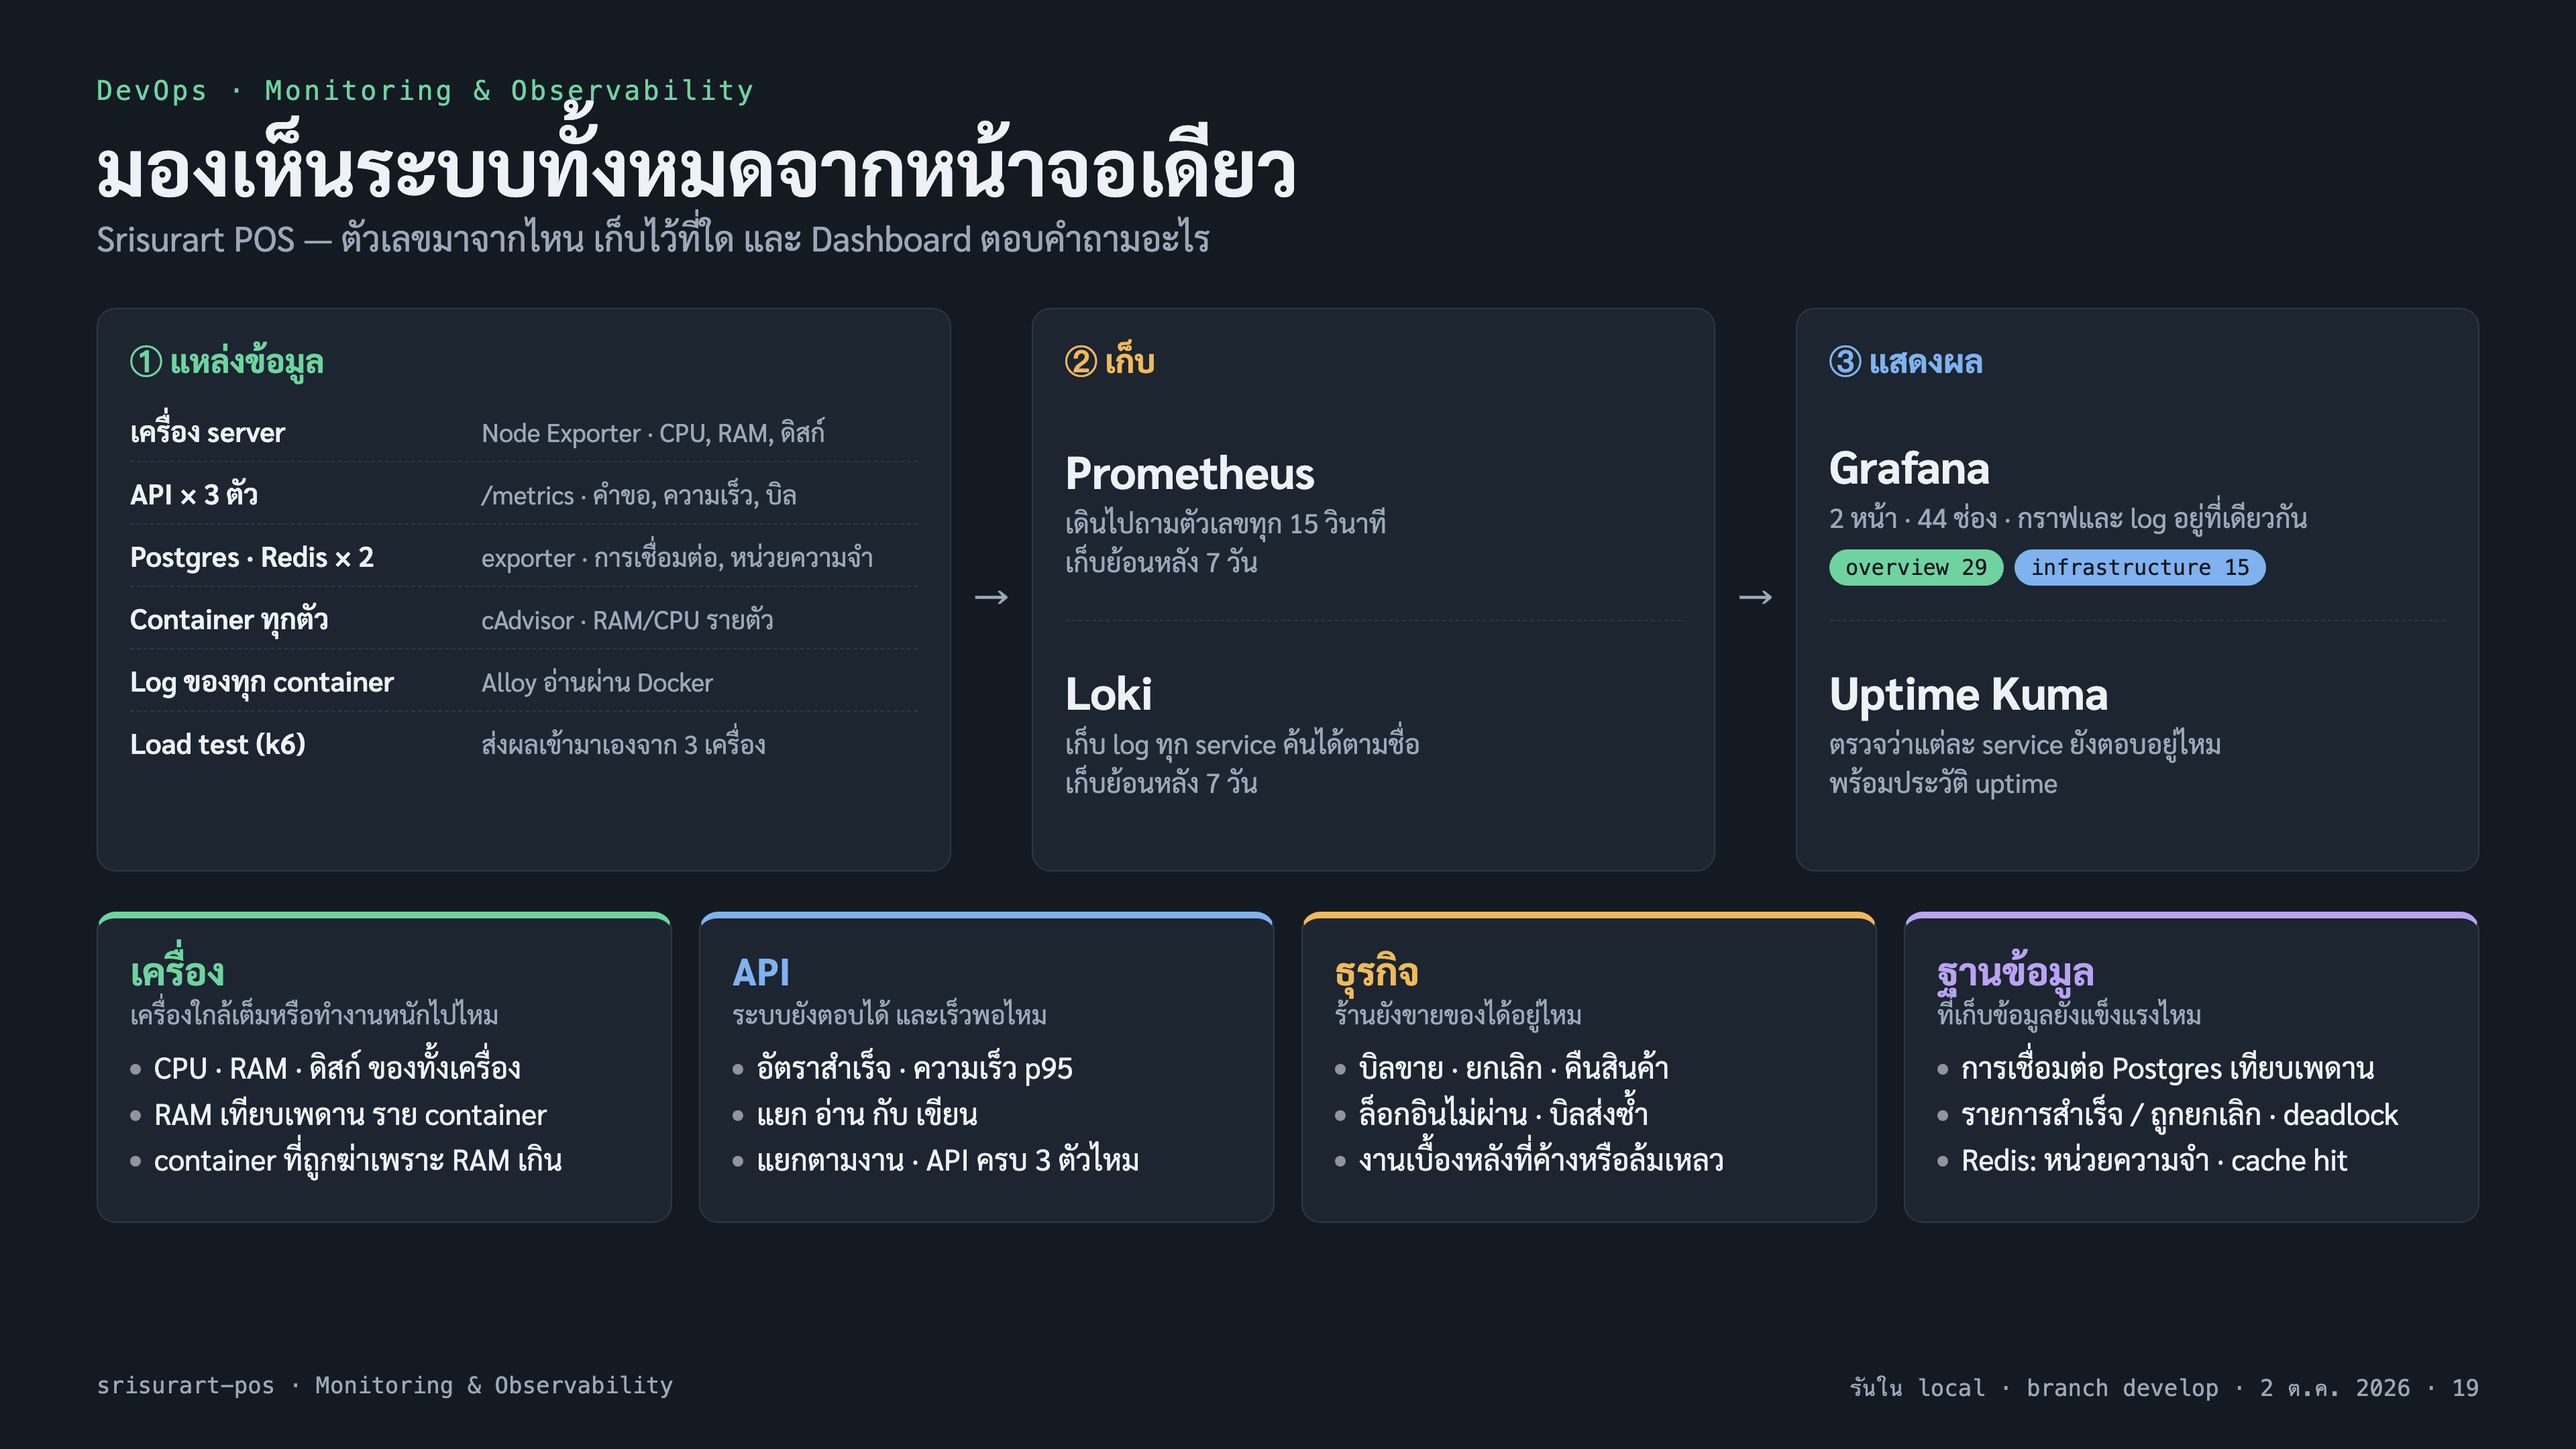
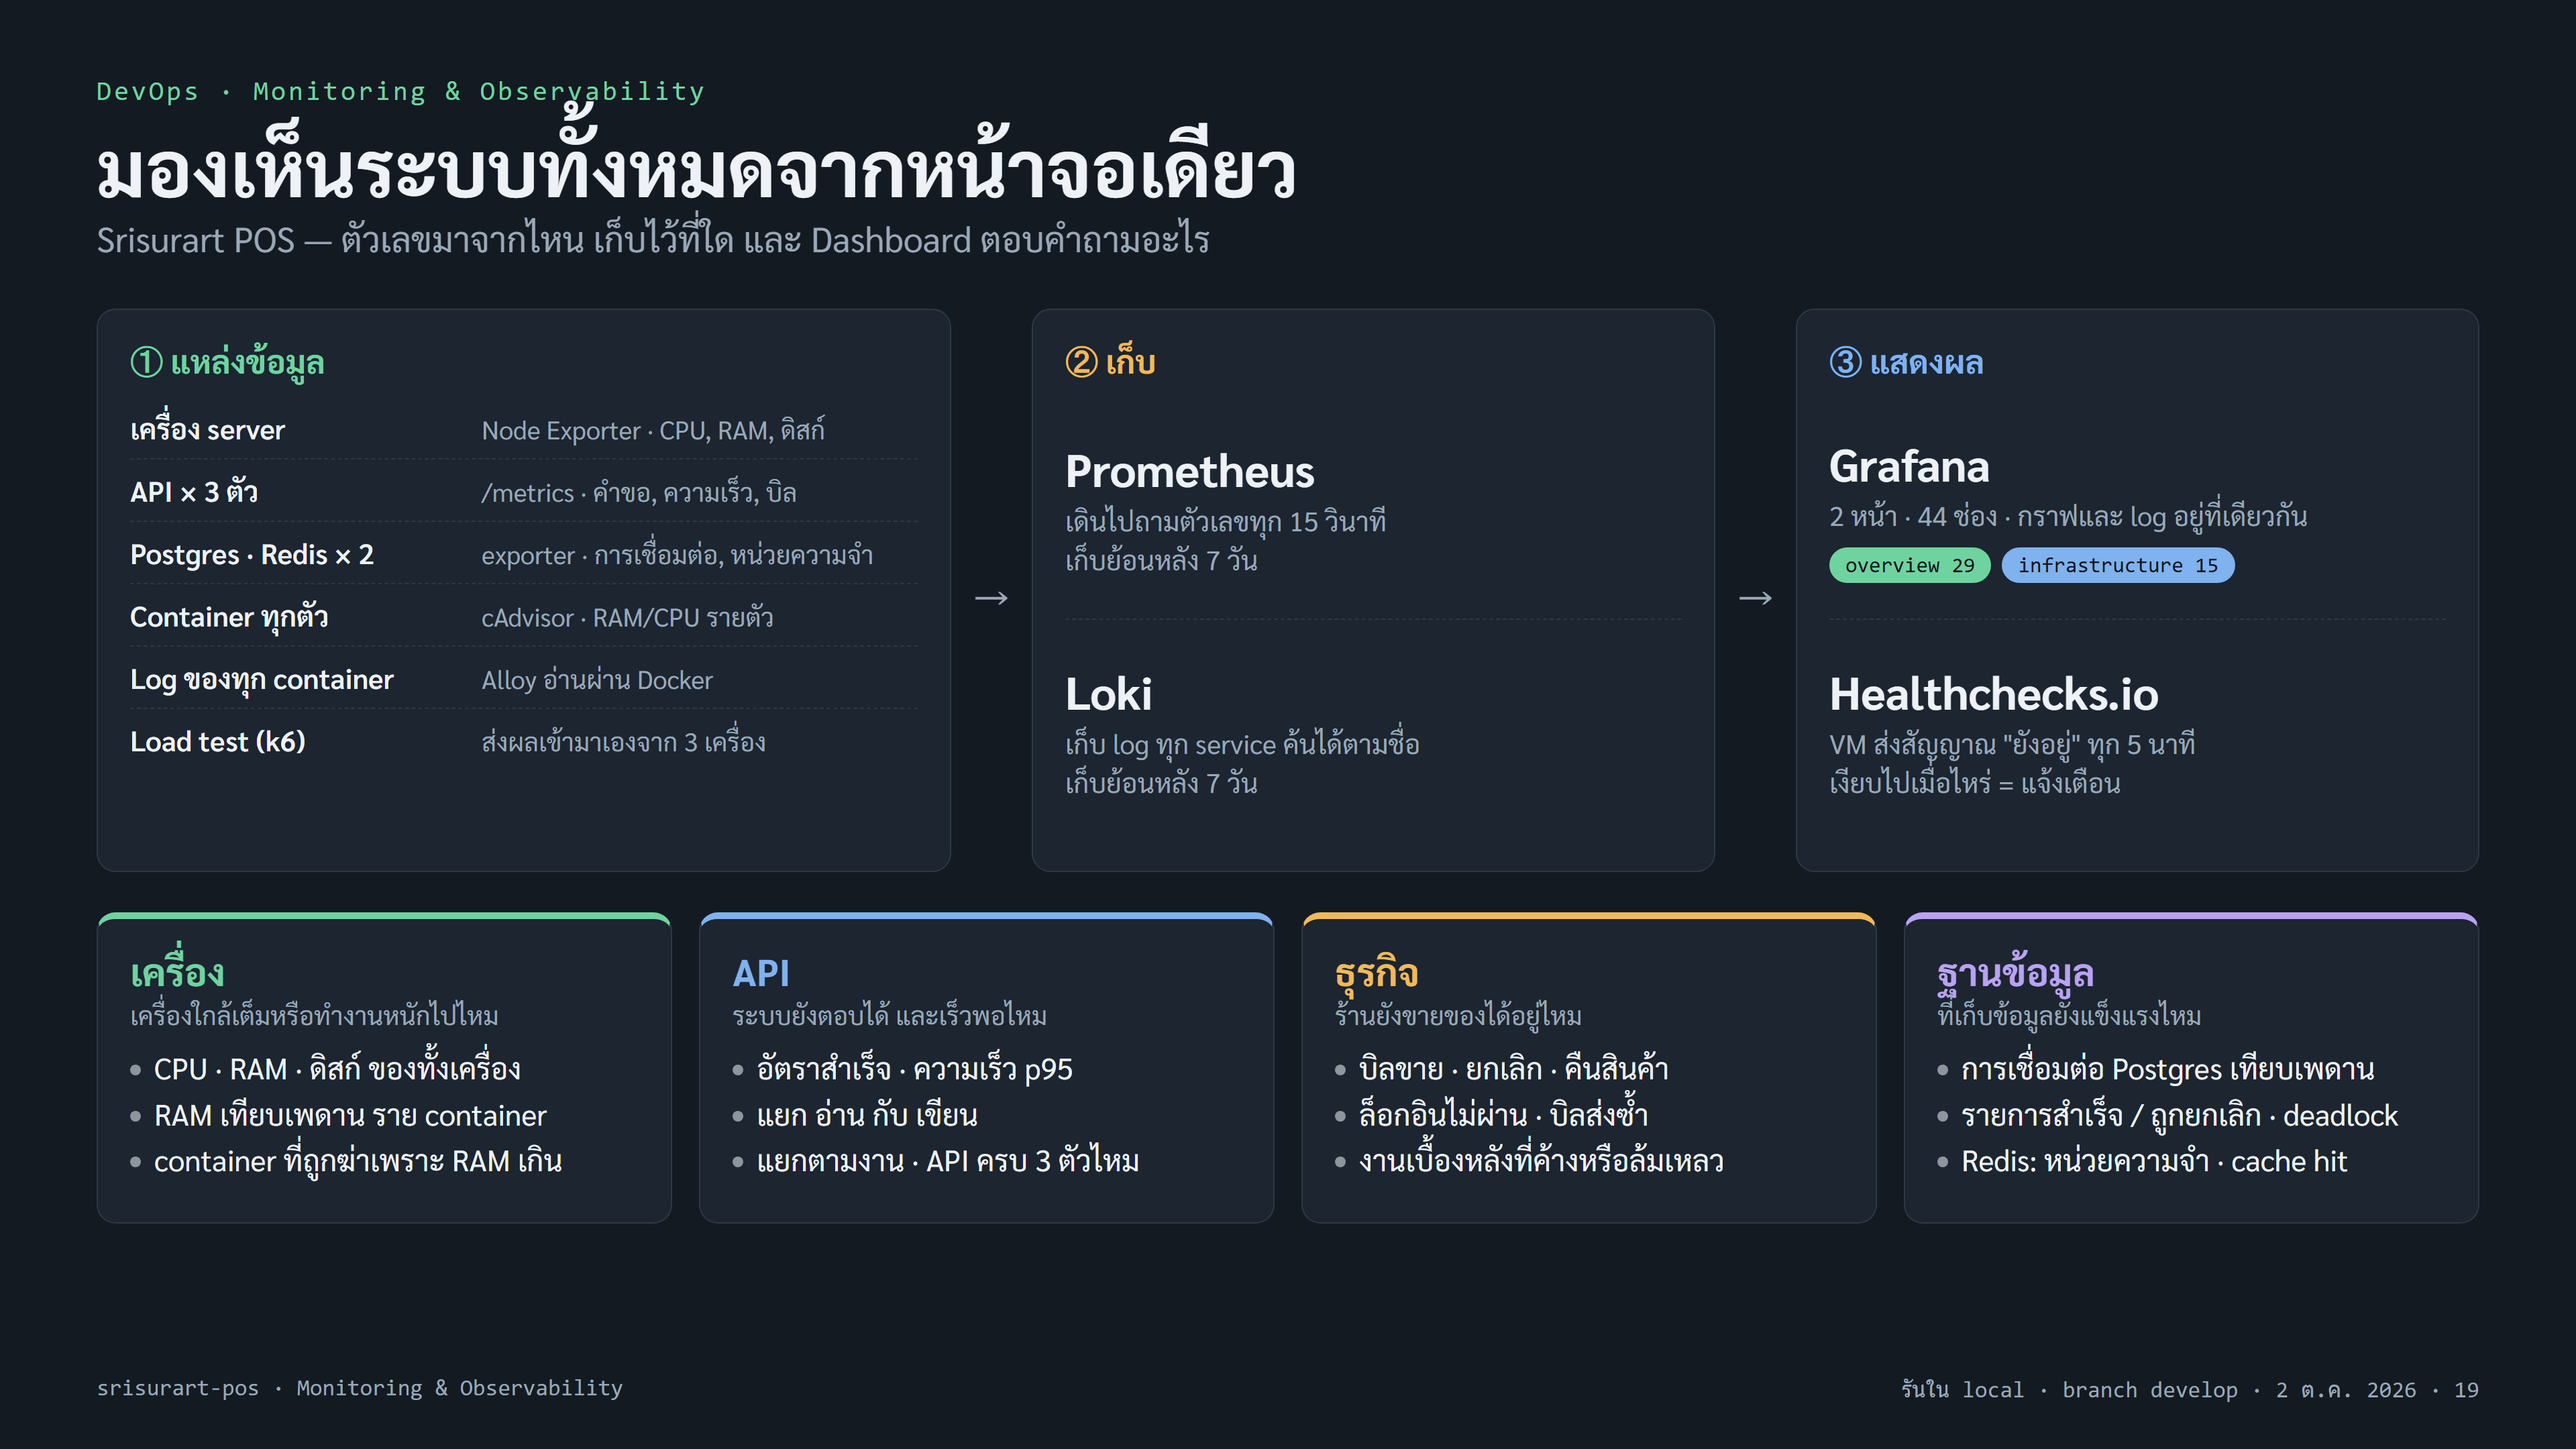
fix(deploy): review follow-ups for #600 — promtool in CI, full local-api override, Kuma → Healthchecks.io (#604)
- server.yml nginx-check: `promtool check config` (v2.55.1, same digest as monitoring.yml) on
  deploy/prometheus/prometheus.yml alone (as on mob04) and with the local overlay's scrape.d
  jobs. deploy.yml only warns when Prometheus fails on the VM, so CI is the first real check.
  The server path filter now includes deploy/prometheus/** and deploy/prometheus-local/**.
- local-api.yml: migrate, worker and bull-board also use the locally built image, so a branch's
  new migration actually runs and BullMQ jobs don't run old code against the new API.
- 07 §10.4: the scrape.d folder does not exist on the VM (not "empty"); cAdvisor is privileged
  with / mounted — dev machines only.
- infographic: Uptime Kuma was dropped for Healthchecks.io on 2026-10-04; HTML + PNG re-rendered.

diff --git a/docs/infographic/monitoring-dashboard.html b/docs/infographic/monitoring-dashboard.html
@@ -54,7 +54,7 @@ h1{font-size:58px;font-weight:700;line-height:1.15;margin-top:10px}
   <div class="col"><h2 style="color:var(--blue)">③ แสดงผล</h2>
     <div class="tool"><div class="big">Grafana</div><div class="note">2 หน้า · 44 ช่อง · กราฟและ log อยู่ที่เดียวกัน</div>
       <div><span class="chip" style="background:var(--green)">overview 29</span><span class="chip" style="background:var(--blue)">infrastructure 15</span></div></div>
-    <div class="tool"><div class="big">Uptime Kuma</div><div class="note">ตรวจว่าแต่ละ service ยังตอบอยู่ไหม<br>พร้อมประวัติ uptime</div></div>
+    <div class="tool"><div class="big">Healthchecks.io</div><div class="note">VM ส่งสัญญาณ "ยังอยู่" ทุก 5 นาที<br>เงียบไปเมื่อไหร่ = แจ้งเตือน</div></div>
   </div>
 </div>
 

diff --git a/docs/Backend_design/07_CICD_DEPLOY.md b/docs/Backend_design/07_CICD_DEPLOY.md
@@ -977,15 +977,15 @@ cadvisor 256m) ขณะที่เพดานรวมของ stack บน 
 | Alloy | `deploy/alloy/config.alloy` | อ่าน log ทุก container ของ compose project นี้ผ่าน `docker.sock` → Loki · UI `127.0.0.1:12345` |
 | exporters | `observability.yml` | postgres-exporter (superuser — **dev เท่านั้น**, VM ต้องใช้ role `pg_monitor`), redis_exporter (multi-target), cAdvisor |
 | Grafana/Prometheus | `deploy/grafana-local/`, `deploy/prometheus-local/` | datasource Loki + dashboard *POS — infrastructure (local)* 15 panel + scrape job 3 ตัว |
-| API จากโค้ดในเครื่อง | `deploy/compose/local-api.yml` | api-1..3 ใช้ image ที่ build เอง (ต้องอยู่หลัง `vm.override.yml`) |
+| API จากโค้ดในเครื่อง | `deploy/compose/local-api.yml` | ทุก service ที่ใช้ image server (migrate, api-1..3, worker, bull-board) ใช้ image ที่ build เอง (ต้องอยู่หลัง `vm.override.yml`) |
 
 * 🔴 ไฟล์ของ overlay นี้ **ห้ามวางใน `deploy/grafana/` หรือ `deploy/prometheus/`** — `deploy.yml` copy สองโฟลเดอร์นั้น
   ขึ้น VM ทั้งก้อน จะได้ datasource ที่ไม่มี Loki อยู่หลัง และ dashboard ที่ "No data" ทั้งหน้า
 * Grafana ใต้ overlay ใช้ `volumes: !override` (Compose ≥ 2.24) mount provisioning ทีละไฟล์ เพราะ bind-mount ไฟล์ลงใน
   โฟลเดอร์ provisioning ที่ mount `:ro` ไม่ได้ → **เพิ่มไฟล์ใน `deploy/grafana/provisioning/` ต้องเพิ่มใน
   `observability.yml` ด้วย** ไม่งั้น Grafana ใต้ overlay จะไม่เห็น
-* `prometheus.yml` มี `scrape_config_files: /etc/prometheus/scrape.d/*.yml` — บน VM โฟลเดอร์ว่าง (promtool v2.55.1 ผ่าน)
-* 🔴 `docker.sock:ro` **ไม่จำกัด Docker API** — Alloy และ cAdvisor สั่ง start/stop container ได้
+* `prometheus.yml` มี `scrape_config_files: /etc/prometheus/scrape.d/*.yml` — บน VM ไม่มีโฟลเดอร์นี้เลย จึงไม่โหลดอะไรเพิ่ม · CI (`nginx-check`) รัน `promtool check config` ทั้งแบบ VM และแบบมี overlay
+* 🔴 `docker.sock:ro` **ไม่จำกัด Docker API** — Alloy และ cAdvisor สั่ง start/stop container ได้ · cAdvisor ยังรัน `privileged: true` และ mount `/` ทั้งเครื่อง — ใช้บนเครื่อง dev เท่านั้น
 * วิธีค้น log: [`deploy/loki/README.md`](../../deploy/loki/README.md)
 
 ## 11. ใครทำอะไร (กฎคอร์ส: ทุกคนแตะ CI/CD)
